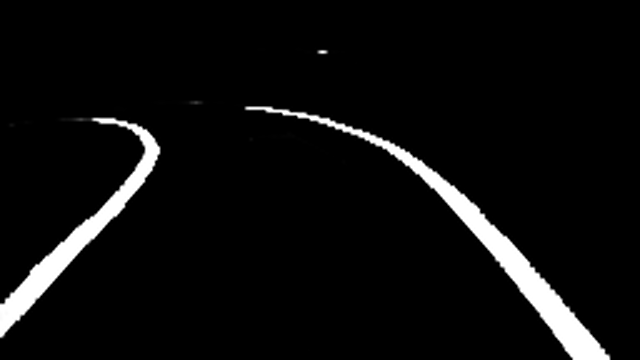
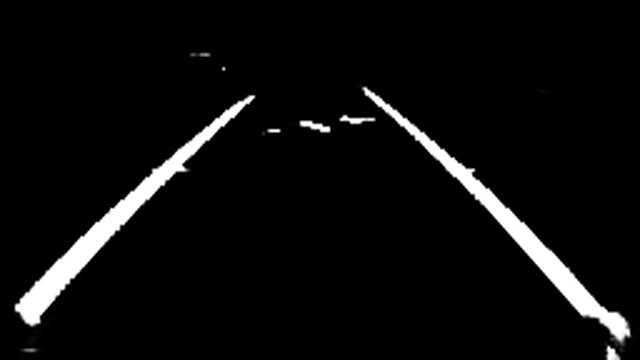
feature: birds eye

diff --git a/srcs/Controller/sources/LaneDetector.cpp b/srcs/Controller/sources/LaneDetector.cpp
@@ -160,11 +160,21 @@ cv::Mat LaneDetector::birdsEyeTransform(const cv::Mat& rawLane) const {
 		std::cerr << "Input frame is empty!" << std::endl;
 		return warped_frame; // Return an empty matrix if the input is empty
 	}
+	std::cout << "[" << __func__ << "] : "
+			  << "Raw lane size: " << rawLane.size()
+			  << ", Type: " << rawLane.type()
+			  << ", Channels: " << rawLane.channels() << std::endl;
+
+	cv::Mat lane_mask_8u ;
+	rawLane.convertTo(lane_mask_8u, CV_8U, 255.0);
+
+	cv::Mat lane_mask_color;
+	cv:cvtColor(lane_mask_8u, lane_mask_color, cv::COLOR_GRAY2BGR);
 	// Define sources point based on rawLane size
-	int rawLaneWidth = rawLane.cols;
-	int rawLaneHeight = rawLane.rows;
+	int rawLaneWidth = lane_mask_color.cols;
+	int rawLaneHeight = lane_mask_color.rows;
 	if (rawLaneWidth <= 0 || rawLaneHeight <= 0) {
-		std::cerr << "Invalid rawLane dimensions!" << std::endl;
+		std::cerr << "Invalid lane_mask_color dimensions!" << std::endl;
 		return warped_frame; // Return an empty matrix if the input is invalid
 	}
 	// Define the source points for the perspective transform
@@ -192,7 +202,13 @@ cv::Mat LaneDetector::birdsEyeTransform(const cv::Mat& rawLane) const {
 
 	// Apply the perspective warp to the input frame
 	cv::Mat birdEyeMask;
-	cv::warpPerspective(rawLane, birdEyeMask, T, rawLane.size());
+	cv::warpPerspective(lane_mask_color, birdEyeMask, T, lane_mask_color.size());
+
+	// cv::Mat lane_mask_8u;
+	// lane_mask_.convertTo(lane_mask_8u, CV_8U, 255.0);
+    // cv::imwrite("lane_mask.png", lane_mask_8U * 255);
+
+
 	cv::imwrite("birdEyeMask.png", birdEyeMask);
 	// Normalize the warped frame to the range [0, 1]
 	cv::Mat normalized_mask;
@@ -524,6 +540,12 @@ void LaneDetector::processFrame(cv::Mat& frame, float& offset, float& angle, cv:
     preprocess(frame);
     infer();
 
+	std::cout << "[" << __func__ << "] : "
+			<< "lane_mask_ size: " << lane_mask_.size()
+			<< ", Type: " << lane_mask_.type()
+			<< ", Channels: " << lane_mask_.channels() << std::endl;
+	// Convert output data to cv::Mat
+	cv::Mat birdEyeMask = birdsEyeTransform(lane_mask_); // Transformação de perspectiva
     lane_mask_ = cv::Mat(input_height_, input_width_, CV_32F, output_data_.data());
     //cv::imwrite("lane_mask_original.png", lane_mask_ * 255);
 
@@ -537,6 +559,8 @@ void LaneDetector::processFrame(cv::Mat& frame, float& offset, float& angle, cv:
 	if (!rawLane.empty()) {
 		cv::imwrite("rawLane.png", rawLane );
 	}
+
+
 
     // double min_val, max_val;
     // cv::minMaxLoc(lane_mask_, &min_val, &max_val);
@@ -566,11 +590,12 @@ void LaneDetector::processFrame(cv::Mat& frame, float& offset, float& angle, cv:
 
     output_frame = frame.clone();
 
+
     if (!calculateLaneGeometry(offset, angle)) {
         std::cout << "[" << __func__ << "] Failed to calculate lane geometry" << std::endl;
     }
 
-    debug_->showOutputVideo(binaryMat, output_frame, left_slope_, left_intercept_, right_slope_, right_intercept_, angle, offset, CAMERA_OFFSET);
+    debug_->showOutputVideo(rawLane, output_frame, left_slope_, left_intercept_, right_slope_, right_intercept_, angle, offset, CAMERA_OFFSET);
 
 	cv::Mat lane_mask_8u;
 	lane_mask_.convertTo(lane_mask_8u, CV_8U, 255.0);

diff --git a/srcs/Controller/sources/Controller.cpp b/srcs/Controller/sources/Controller.cpp
@@ -216,7 +216,12 @@ void Controller::autonomous(float prev_delta) {
 
     // Check if LaneDetector is initialized and capture frame
     if (!laneDetector || !laneDetector->cap_.read(frame)) {
-        std::cerr << "Error: Could not capture frame or LaneDetector not initialized!" << std::endl;
+		if (!laneDetector) {
+			std::cerr << "Error: LaneDetector not initialized!" << std::endl;
+		} else {
+			std::cerr << "Error: Could not read frame from camera!" << std::endl;
+		}
+       // std::cerr << "Error: Could not capture frame or LaneDetector not initialized!" << std::endl;
         return;
     }
 
